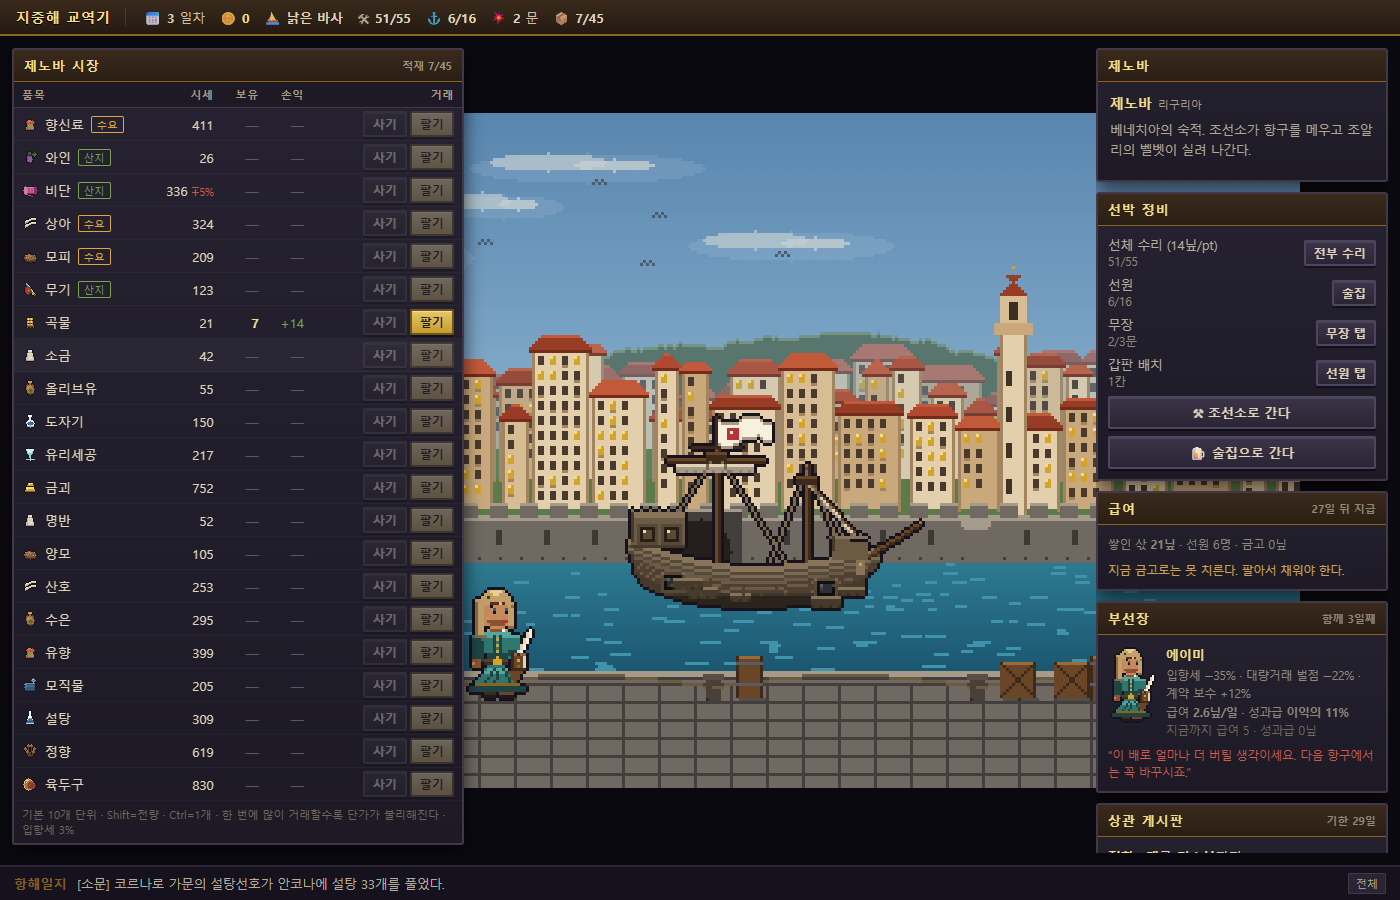
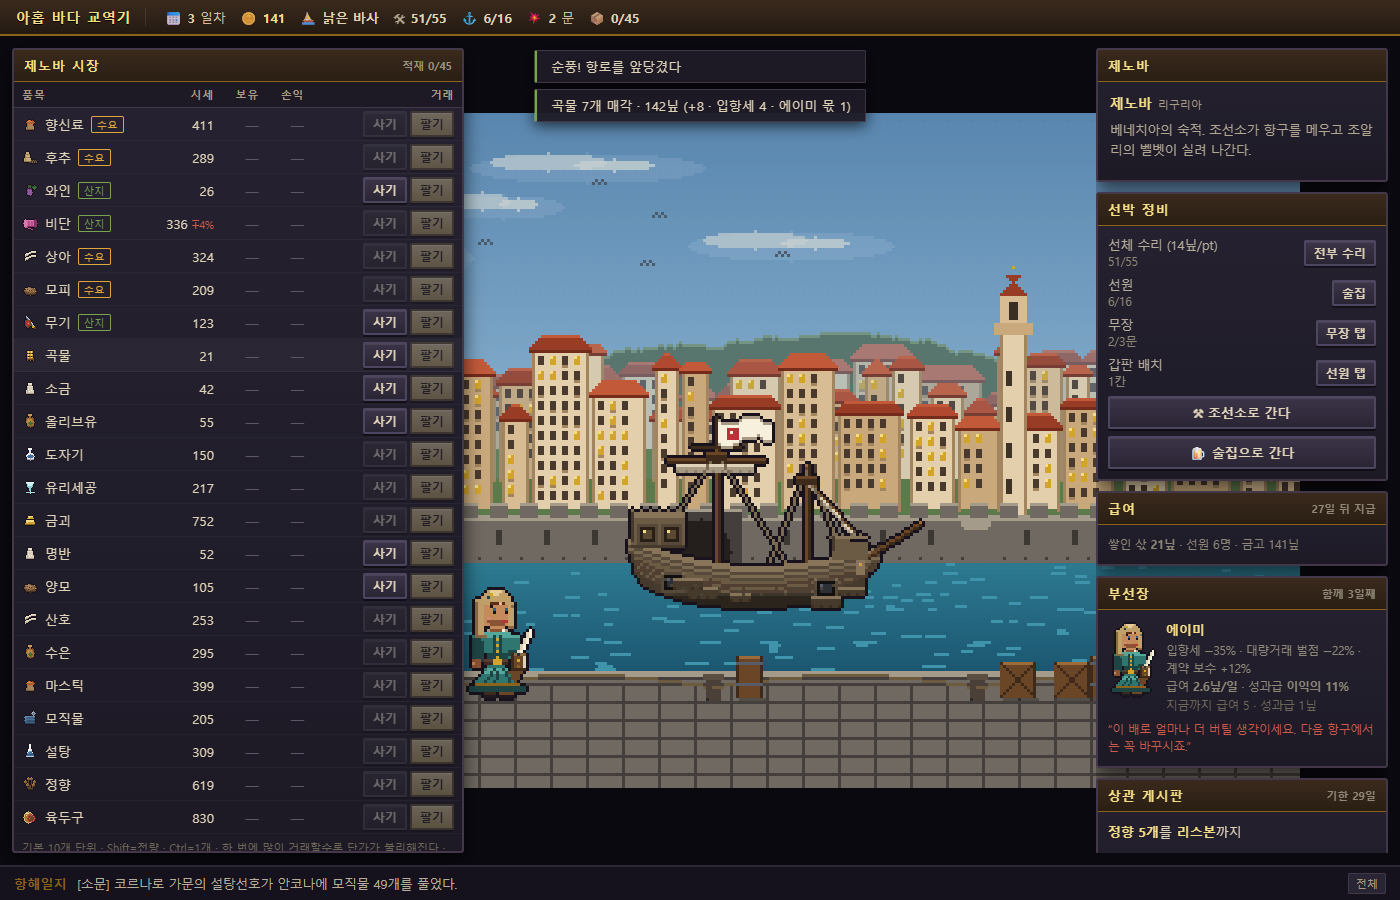
값 차이는 구조이고 흔들림은 시황이다 — 은·금 사다리를 세웠다
테스터 셋이 서로 다른 바다에서 같은 병을 잡아 왔다.
아메리카: 포토시 360 → 파나마 291. **광산에서 멀어질수록 은이 싸진다.**
아프리카: 세계 최저여야 할 엘미나 금(0.46)이 아심(0.52)보다 비싸다.
실측하니 은은 여덟 칸 중 넷이 역전, 금은 다섯 중 하나가 역전이었다.

원인 둘.
① 흔들림이 도시마다 따로 ±15%씩 놀았다. 그런데 산지 배율 0.46과 0.52의 차이는
   SPREAD로 5.6%까지 눌린다. 노이즈가 사다리보다 세 배 크니 순서가 뒤집힌다.
   시황(기근·전쟁·풍작)은 세계가 함께 겪는 것이고, 도시 사이의 값 차이는
   그 도시가 무엇을 캐고 무엇을 원하는가라는 구조다. 구조가 노이즈로 뒤집히면 안 된다.
   → 공통 시황 ±12% + 도시 사정 ±3.5%로 갈랐다. 품목이 흔들리는 폭은 전과 비슷하다.
② 두 권역이 각자 "세계에서 가장 싼 은"을 주장했다. 포토시 0.44와 포르토벨로 0.44.
   그런데 포르토벨로의 은은 포토시에서 캐어 아리카·카야오를 거쳐 태평양을 올라오고
   파나마에서 노새 등에 실려 지협을 넘어온 것이다. 걸음마다 값이 붙어야 한다.
   → 파나마 0.66 · 포르토벨로 0.70 · 놈브레데디오스 0.74. 최저는 포토시 하나다.

SPREAD 0.62 → 0.70. 조이는 것에도 값이 있다 — 어느 항구가 원가에 가까운지
화면에서 알 수 없으면 그 바다의 서사가 관측 불가능해진다.
시뮬 12회로 0.70과 0.78이 사실상 같아 덜 움직이는 쪽을 골랐다.

시뮬 12회 (전 → 후):
  5항차   648닢 → 99닢          초반이 얇아졌다. 노이즈로 긁던 몫이다
  10항차    0닢 → 233닢          **파산 11/12회 → 0회**
  완주      10항차 → 11항차
사다리 역전: 은 4~5/8 → 0/8 · 금 1/5 → 0/5
포토시 277 → 콜로니아 499(+80%) · 엘미나 455 → 모가디슈 839(+84%)

check-prices·test-rules(66)·test-payroll·check-architecture 전부 통과.

diff --git a/js/regions/caribbean/trade.js b/js/regions/caribbean/trade.js
@@ -133,17 +133,22 @@ export const TRADE = {
 
   // ── 지협 ──────────────────────────────────────────────────────
   nombrededios: {
-    // 포르토벨로에게 자리를 내준 옛 종착지. 노새 대열이 아직 가끔 들어오지만
+    // 포르토벨로에게 자리를 내준 옛 종착지. 은이 여기까지 오면 손이 하나 더 탔다(0.74).
+    // 노새 대열이 아직 가끔 들어오지만
     // 늪과 열병 말고는 남은 것이 없어 먹을 것을 죄다 사들인다.
-    supply: { silver: 0.52 },
+    supply: { silver: 0.74 },
     demand: { grain: 1.36, wine: 1.34, weapon: 1.24 },
     blurb: '포르토벨로에 자리를 내준 옛 문. 노새 대열이 아직 가끔 들어온다.',
   },
   portobelo: {
     // **세계에서 가장 싼 은**이 여기 있다. 카야오에서 파나마로 올라와 노새로 지협을 넘어온
-    // 페루 은이 배를 기다리는 자리라 광산 원가에 가장 가깝다.
+    // 페루 은이 대서양 배를 기다리는 자리. ★ 다만 **광산 원가에 가장 가까운 곳은 아니다** —
+    // 이 은은 포토시에서 캐어 아리카·카야오를 거쳐 태평양을 올라오고 파나마에서 노새 등에
+    // 실려 지협을 넘어온 것이다. 그 걸음마다 값이 붙는다. 전에 0.44를 주어 포토시와 같게
+    // 두었더니 **광산에서 멀어질수록 은이 싸지는** 지도가 됐다(실측: 포토시 360 → 파나마 291).
+    // 두 권역이 각자 "세계에서 가장 싼 은"이라 주장하고 있었다. 최저는 포토시 하나다.
     // 페리아가 서면 유럽 물건이 한꺼번에 팔린다 — demand가 넓고 높은 이유다.
-    supply: { silver: 0.44 },
+    supply: { silver: 0.70 },
     demand: { mercury: 1.46, wine: 1.38, woolcloth: 1.34, grain: 1.32 },
     blurb: '페루 은이 대서양을 만나는 자리. 함대가 닿는 마흔 날만 아메리카에서 가장 비싼 시장이 된다.',
   },
@@ -152,7 +157,7 @@ export const TRADE = {
   panama: {
     // 태평양 최초의 유럽 도시. 카야오에서 올라온 은이 여기 내려 노새 등에 오른다.
     // 앞바다 진주 군도(Archipiélago de las Perlas)의 이름이 곧 이 항구의 특산이다.
-    supply: { silver: 0.46, pearl: 0.54 },
+    supply: { silver: 0.66, pearl: 0.54 },
     demand: { mercury: 1.42, wine: 1.34, woolcloth: 1.30 },
     blurb: '태평양에 처음 선 유럽 도시. 페루 은이 여기서 노새 등에 오른다.',
   },

diff --git a/js/state.js b/js/state.js
@@ -171,13 +171,25 @@ export function activeShocks() {
   }));
 }
 
+/* ★ 흔들림을 **시황**과 **도시 사정**으로 가른다.
+   전에는 도시마다 ±15%씩 따로 흔들렸다. 그러면 산지·수요 배율이 만드는 사다리가
+   통째로 뒤집힌다 — 실측으로 은은 여덟 칸 중 **네 칸이 역전**이었고(포토시 360 →
+   포르토벨로 327 → 파나마 291, 광산에서 멀어질수록 싸진다), 아프리카 금은
+   "세계에서 가장 싼 엘미나(0.46)"가 아심(0.52)보다 비쌌다. 두 바다의 중심 서사가
+   화면에서 **관측 불가능**했던 것이다.
+
+   시황(기근·전쟁·풍작)은 세계가 함께 겪는다 — 그건 크게 흔들려도 좋다.
+   도시 사이의 값 차이는 **그 도시가 무엇을 캐고 무엇을 원하는가**라는 구조이고,
+   구조는 노이즈로 뒤집히면 안 된다. 그래서 공통 성분을 크게, 도시 성분을 작게 둔다.
+   (품목이 흔들리는 폭 자체는 전과 비슷하다 — 갈라 놓았을 뿐이다.) */
 export function priceOf(cityId, goodId) {
   const city = CITY_BY_ID[cityId];
   const good = GOOD_BY_ID[goodId];
   const raw = city.supply[goodId] ?? city.demand[goodId] ?? 1;
   const mul = 1 + (raw - 1) * SPREAD;          // 차익 폭을 SPREAD로 조인다
-  const w = 0.86 + wobble(cityId, goodId, state.day) * 0.30;   // ±15%
-  return Math.max(1, Math.round(good.base * mul * w * shockFactor(cityId, goodId)));
+  const trend = 0.88 + wobble('~world', goodId, state.day) * 0.24;   // 시황 ±12% (전 세계 공통)
+  const local = 0.965 + wobble(cityId, goodId, state.day) * 0.07;    // 도시 사정 ±3.5%
+  return Math.max(1, Math.round(good.base * mul * trend * local * shockFactor(cityId, goodId)));
 }
 
 export function refreshPrices() {

diff --git a/js/data.js b/js/data.js
@@ -46,8 +46,14 @@ export const MARKET = {
 /* 산지/수요지 배율 압축 — 도시별 supply/demand 값을 1 쪽으로 당긴다.
    원래 값(0.46~1.52)은 한 항차에 자산이 배로 불어날 만큼 차익이 커서
    "여러 번 무역해야 다음 배"가 성립하지 않았다. 도시 데이터는 그대로 두고
-   여기 한 계수로 폭만 조인다 — 도시를 추가할 때 다시 균형을 맞출 필요가 없다. */
-export const SPREAD = 0.62;
+   여기 한 계수로 폭만 조인다 — 도시를 추가할 때 다시 균형을 맞출 필요가 없다.
+
+   ★ 0.62 → 0.70. 조이는 것에도 값이 있다 — 산지 배율 0.46과 0.52의 차이가 5.6%까지
+     짓눌려 **어느 항구가 원가에 가까운지 화면에서 알 수 없었다**(아프리카 금·아메리카 은).
+     시뮬 12회로 재 보니 0.70과 0.78이 사실상 같아 덜 움직이는 쪽을 골랐다.
+     같은 측정에서 10항차 파산이 12회 중 11회 → 0회로 바뀌었는데, 그것은 이 계수보다
+     `priceOf`의 흔들림을 시황과 도시 사정으로 가른 쪽이 낸 것이다. */
+export const SPREAD = 0.70;
 
 /* 대형 주문 — 상관이 내는 큰 계약. 항구마다 하나씩 걸려 있고 사흘마다 갈린다.
    화물은 직접 조달해야 하고 기한도 있지만, 성사되면 시세보다 훨씬 후하게 쳐준다.

diff --git a/js/scenes/port.js b/js/scenes/port.js
@@ -457,14 +457,23 @@ function figureCard() {
         style: { fontSize: '11px', color: '#8f8878', letterSpacing: 0 },
       }),
     ]),
-    el('div.svc', {}, people.slice(0, 6).map((f) => el('div.ctr-sub', {
-      title: f.blurb ?? '',
-      style: { cursor: 'pointer' },
-      onclick: () => talkTo(f),
-      text: `${f.name}`
-          + (JOB_LABEL[f.job] ? ` (${JOB_LABEL[f.job]})` : '')
-          + (SERVICE_LABEL[f.service] ? ` — ${SERVICE_LABEL[f.service]}` : ''),
-    }))),
+    el('div.svc', {}, [
+      ...people.slice(0, 6).map((f) => el('div.ctr-sub', {
+        title: f.blurb ?? '',
+        style: { cursor: 'pointer' },
+        onclick: () => talkTo(f),
+        text: `${f.name}`
+            + (JOB_LABEL[f.job] ? ` (${JOB_LABEL[f.job]})` : '')
+            + (SERVICE_LABEL[f.service] ? ` — ${SERVICE_LABEL[f.service]}` : ''),
+      })),
+      // 잘린 줄이 있으면 잘렸다고 말한다 — 아무 말 없이 여섯에서 끊으면 그 항구가 작아 보인다
+      people.length > 6
+        ? el('div.ctr-sub', {
+            text: `…그 밖에 ${people.length - 6}명이 더 있다.`,
+            style: { color: '#6f6858' },
+          })
+        : null,
+    ].filter(Boolean)),
   ]);
 }
 
